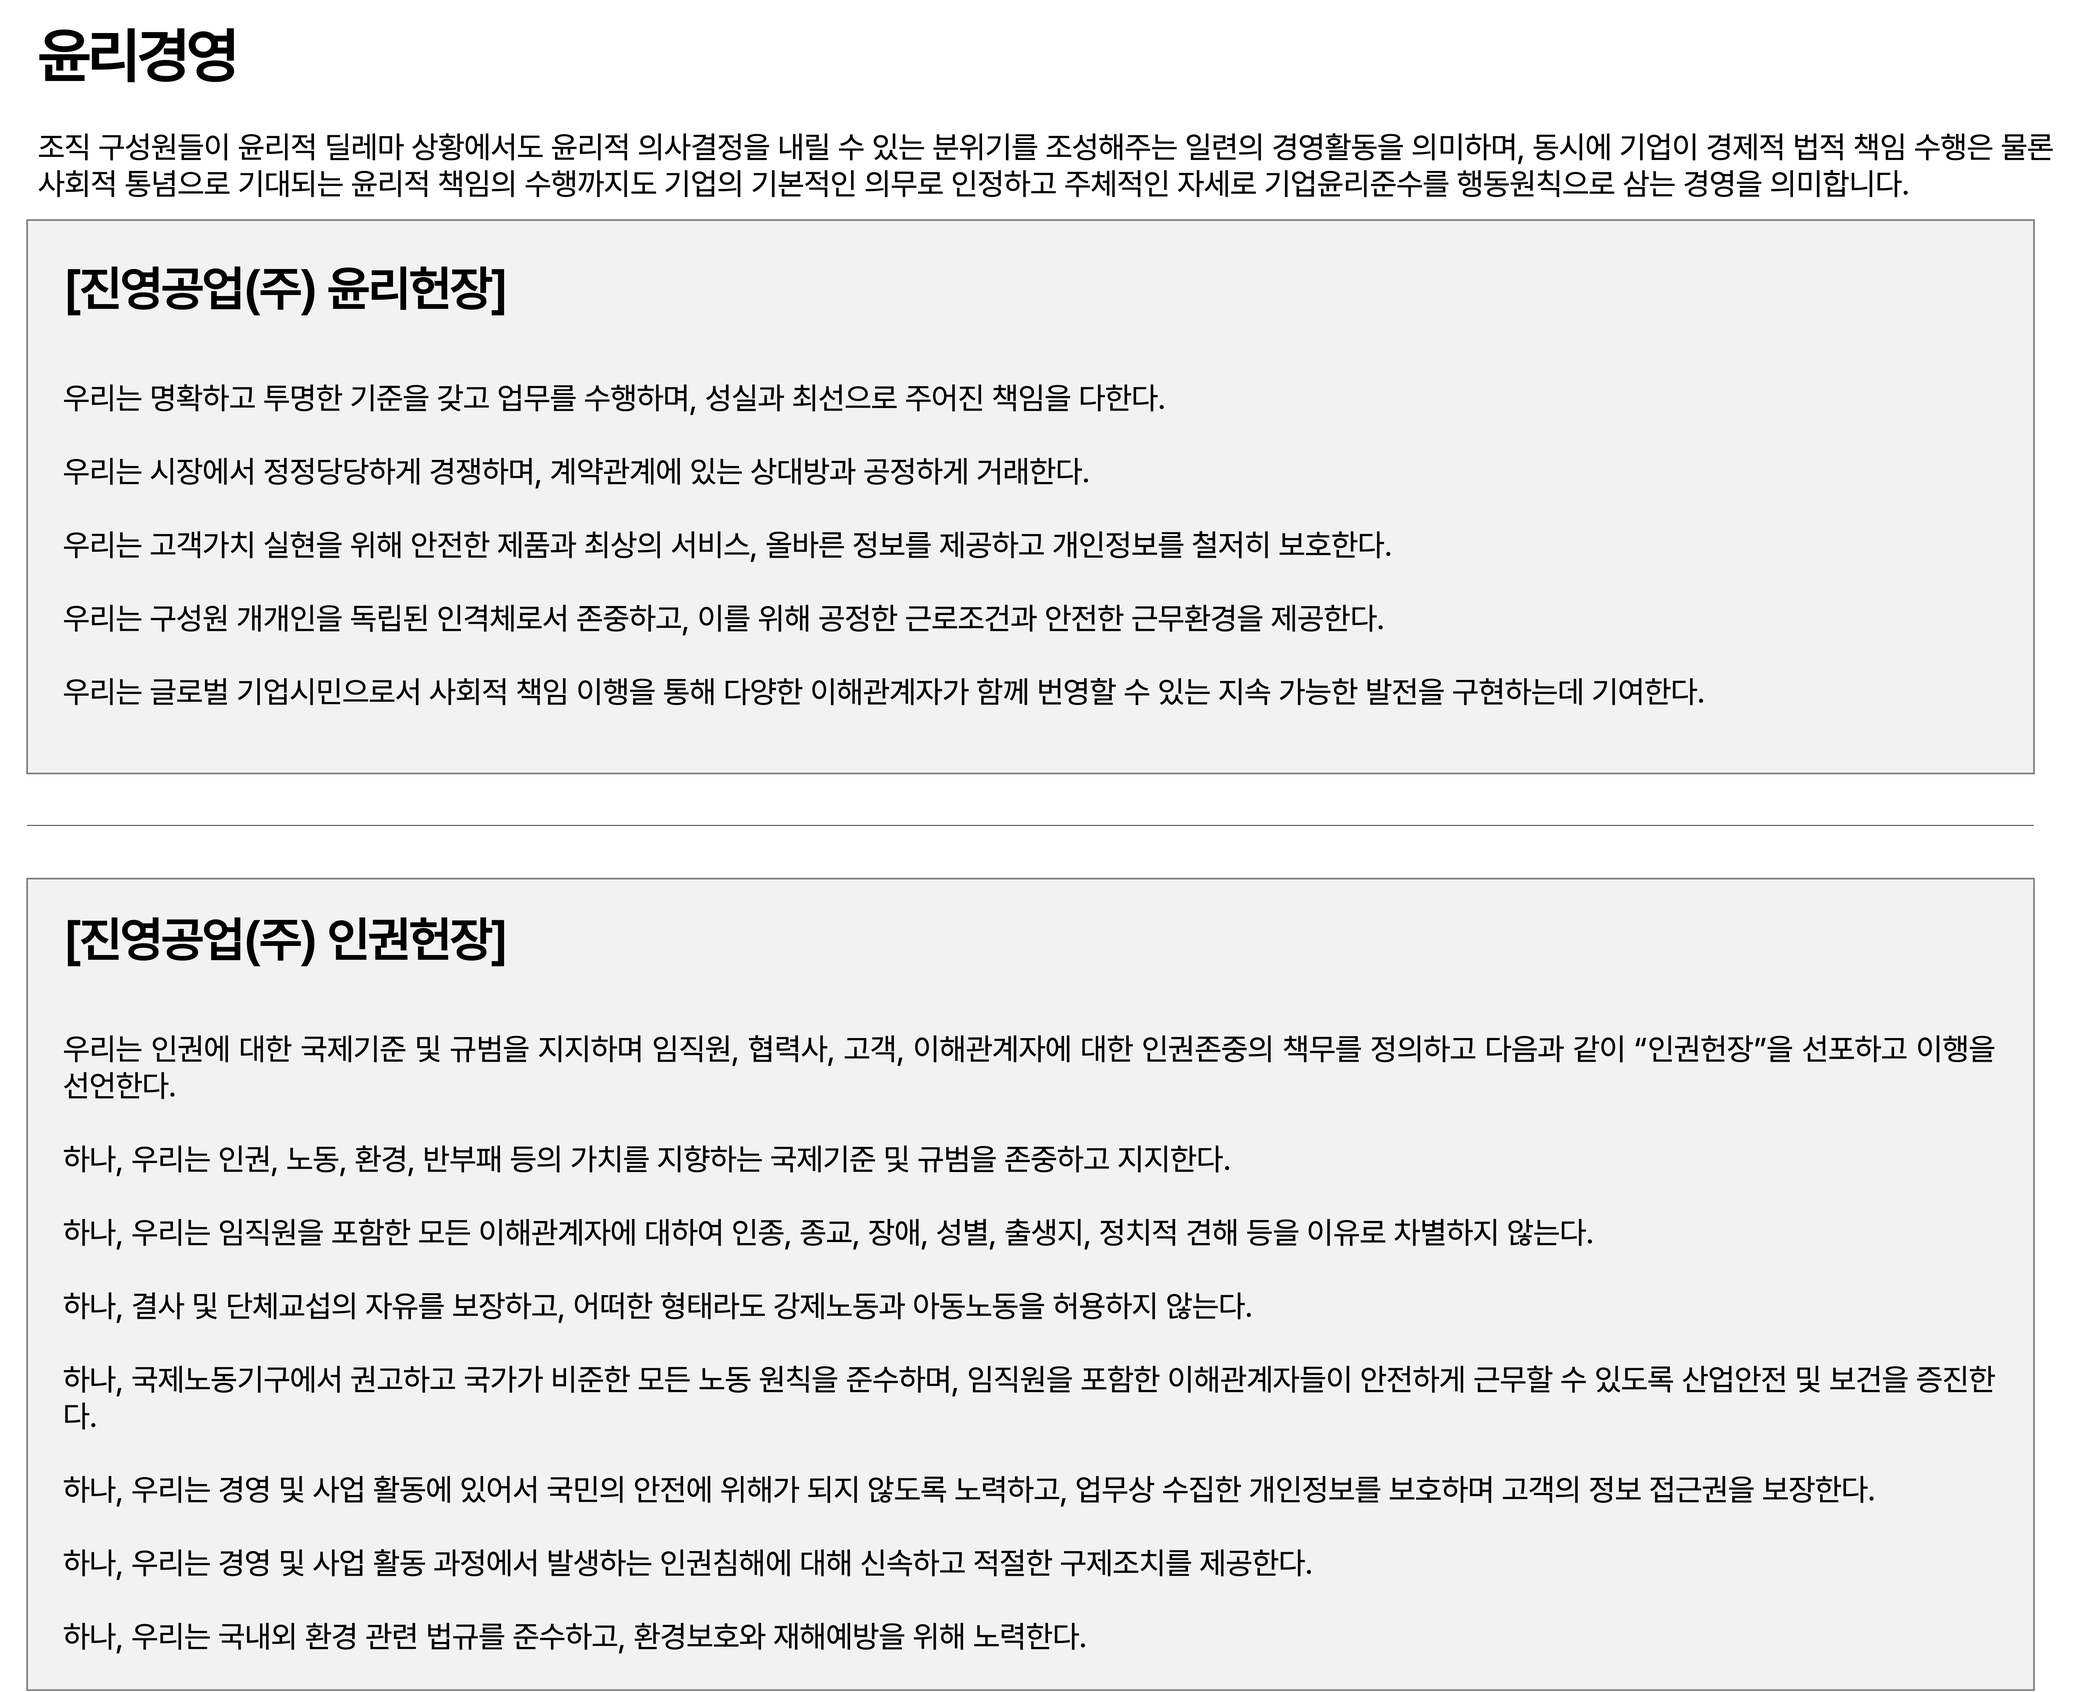
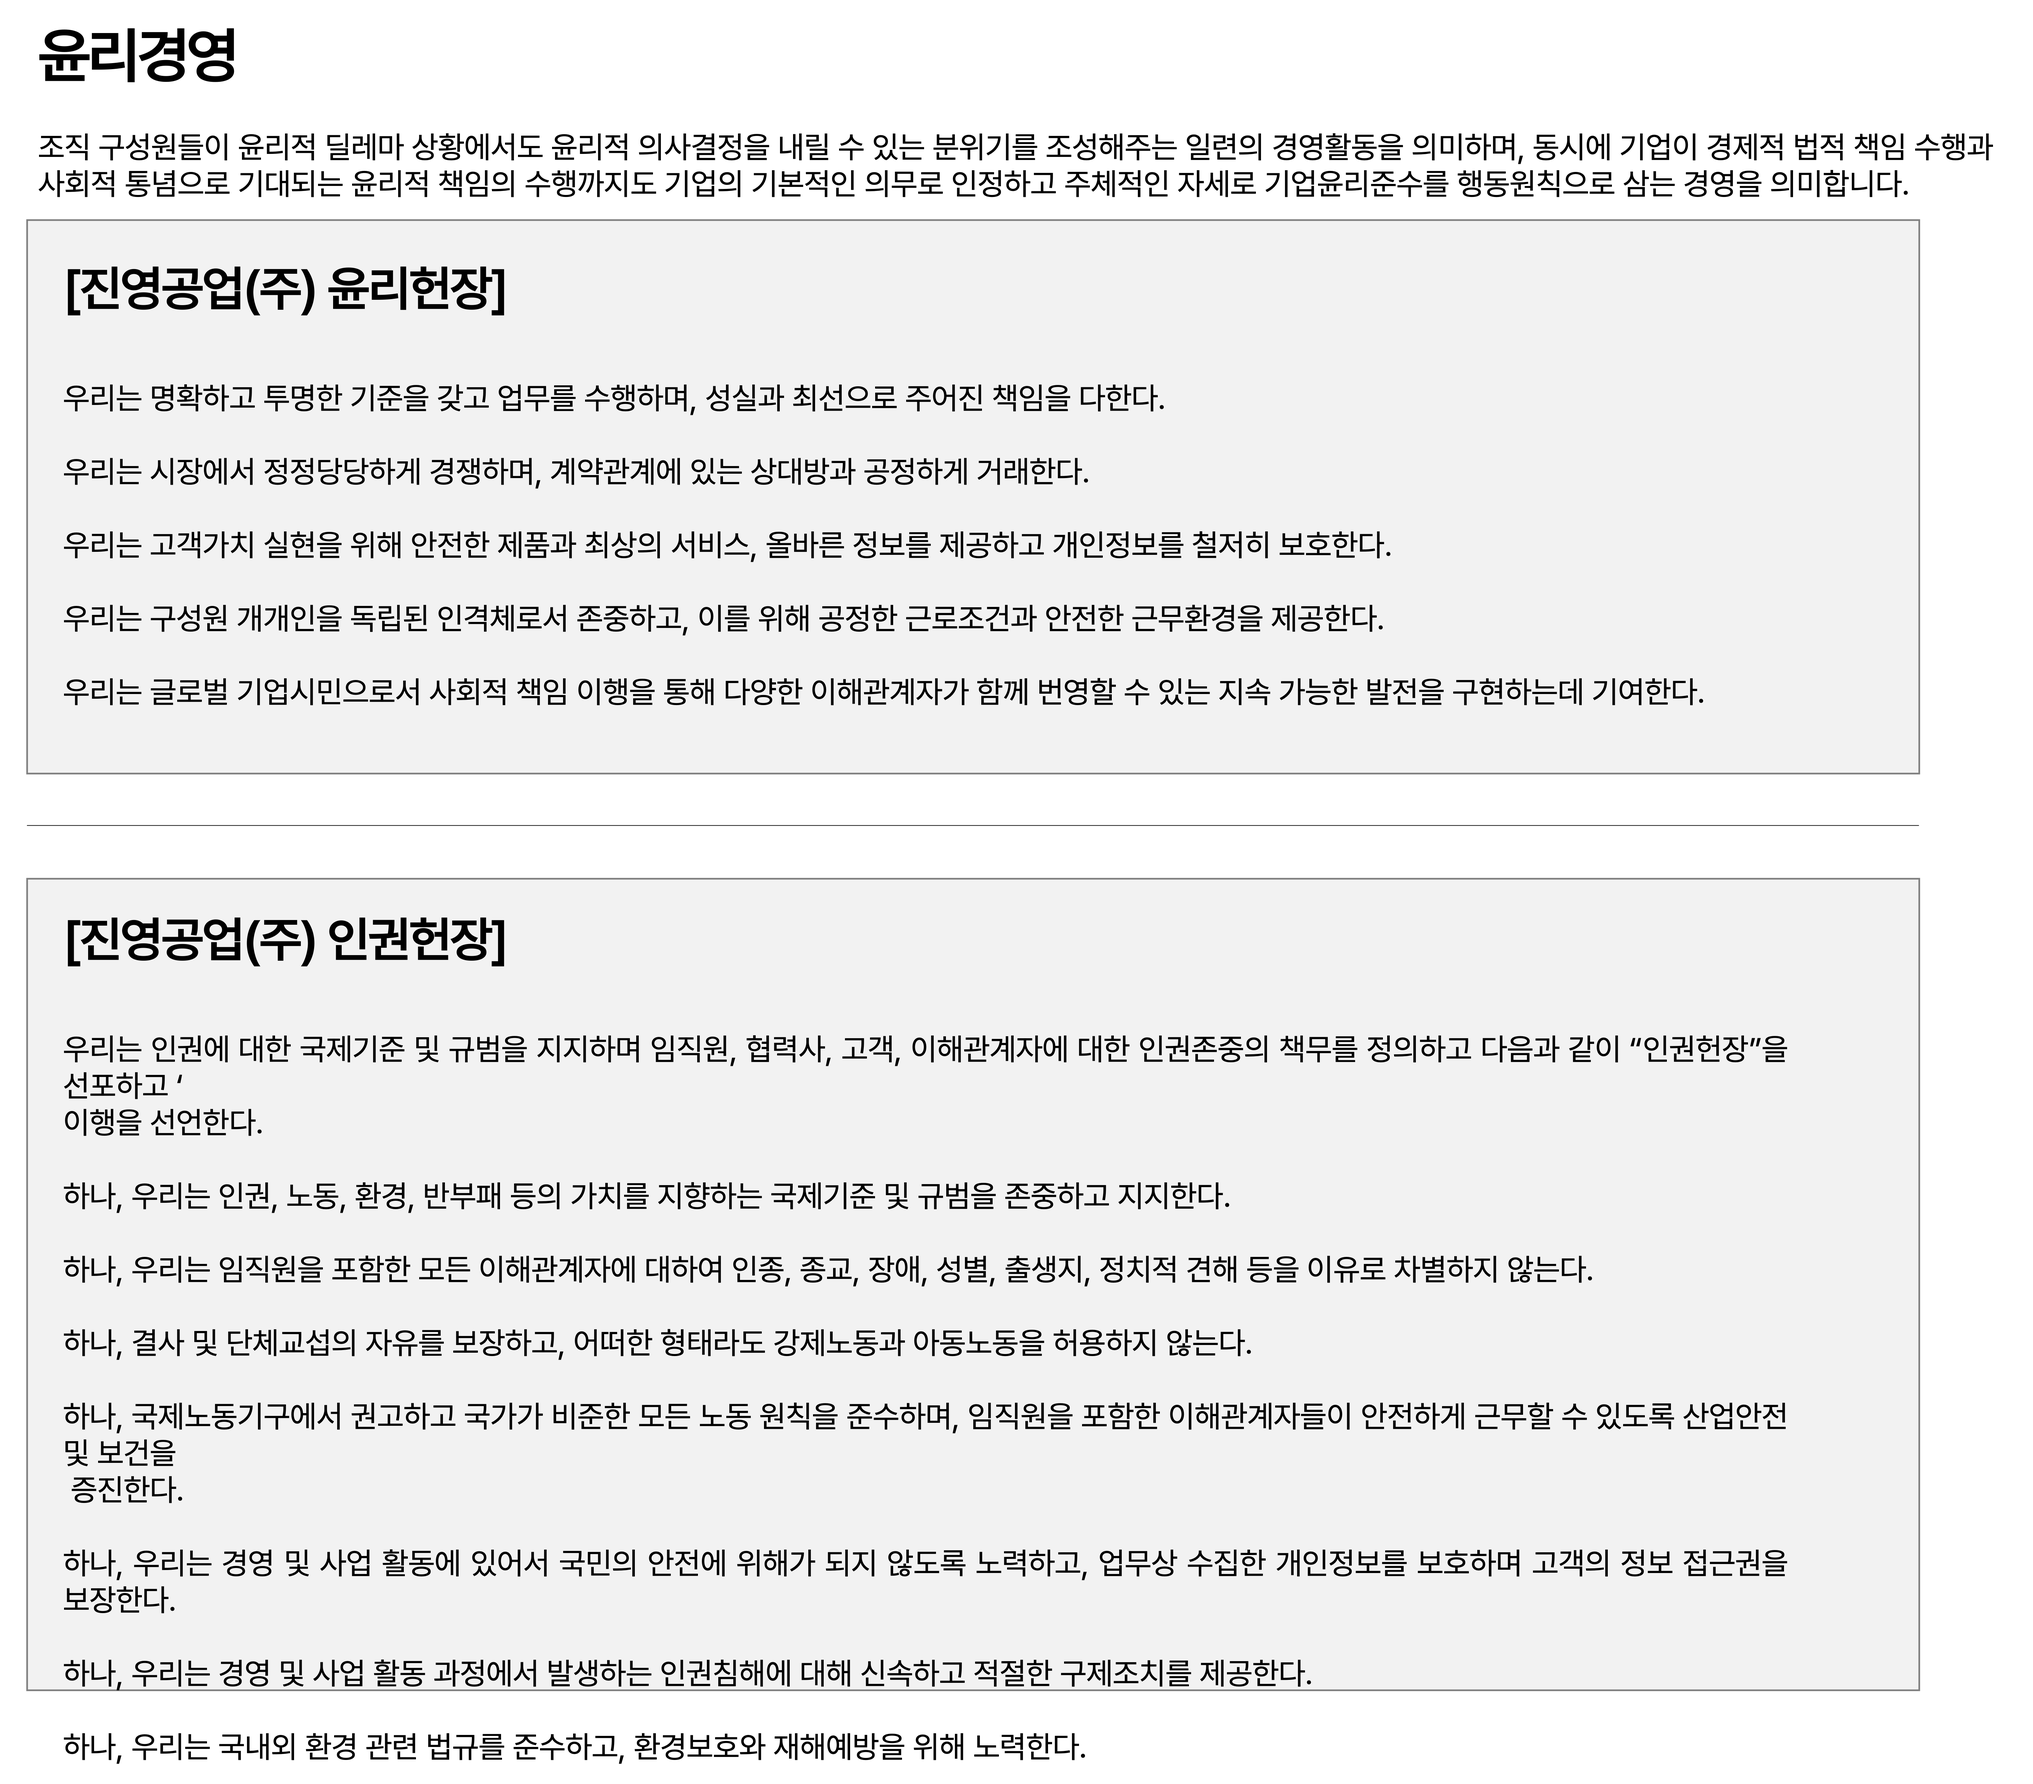
차종 및 윤리경영 수정

diff --git a/src/pages/LandingPages/Esg/Ethic.js b/src/pages/LandingPages/Esg/Ethic.js
@@ -100,14 +100,16 @@ function Ethic() {
                 }}
             >
             <MKBox component="section" py={5}>
+                <Container>
                     <Grid container spacing={3} alignItems="center" mx="auto">
                         <Grid item xs={12} lg={12}>
-                            <MKBox component="img" src={ethicImage} width="100%"/>
+                            <MKBox component="img" src={ethicImage} width="90%"/>
                         </Grid>
                     </Grid>
+                </Container>
             </MKBox>
             <Container>
-            <Grid item xs={9} lg={9} >
+            <Grid item xs={12} lg={12} >
                 <Grid container justifyContent="center" justifyItems="center" alignItems="center">
                     <Grid item xs={9} md={3}>
                         {/*<MKBox>윤리규범*/}
